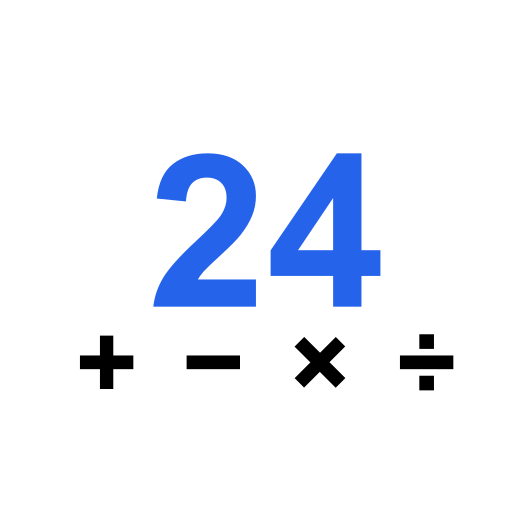
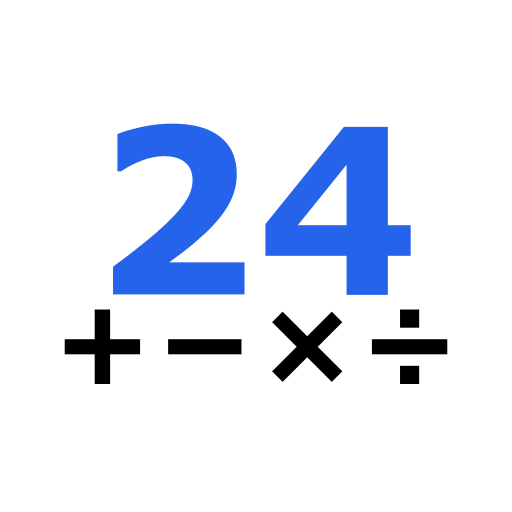
more pwa

diff --git a/public/sw.js b/public/sw.js
@@ -1,1 +1,1 @@
-if(!self.define){let e,s={};const a=(a,n)=>(a=new URL(a+".js",n).href,s[a]||new Promise((s=>{if("document"in self){const e=document.createElement("script");e.src=a,e.onload=s,document.head.appendChild(e)}else e=a,importScripts(a),s()})).then((()=>{let e=s[a];if(!e)throw new Error(`Module ${a} didn’t register its module`);return e})));self.define=(n,t)=>{const i=e||("document"in self?document.currentScript.src:"")||location.href;if(s[i])return;let c={};const r=e=>a(e,i),o={module:{uri:i},exports:c,require:r};s[i]=Promise.all(n.map((e=>o[e]||r(e)))).then((e=>(t(...e),c)))}}define(["./workbox-4754cb34"],(function(e){"use strict";importScripts(),self.skipWaiting(),e.clientsClaim(),e.precacheAndRoute([{url:"/_next/app-build-manifest.json",revision:"3a057313ae158e9dedf88580bd00e910"},{url:"/_next/static/33mBJdGOMOGts4jSuU8fO/_buildManifest.js",revision:"ff922c5cfc902466bc8002c14198983b"},{url:"/_next/static/33mBJdGOMOGts4jSuU8fO/_ssgManifest.js",revision:"b6652df95db52feb4daf4eca35380933"},{url:"/_next/static/chunks/40-16661ee4245906f6.js",revision:"33mBJdGOMOGts4jSuU8fO"},{url:"/_next/static/chunks/4bd1b696-f4e4a7fe856b7615.js",revision:"33mBJdGOMOGts4jSuU8fO"},{url:"/_next/static/chunks/517-d18828837ab5e8d4.js",revision:"33mBJdGOMOGts4jSuU8fO"},{url:"/_next/static/chunks/app/_not-found/page-b60f205c5b8b186d.js",revision:"33mBJdGOMOGts4jSuU8fO"},{url:"/_next/static/chunks/app/layout-e7e750a429e8f20a.js",revision:"33mBJdGOMOGts4jSuU8fO"},{url:"/_next/static/chunks/app/page-c4a362f233a7e65b.js",revision:"33mBJdGOMOGts4jSuU8fO"},{url:"/_next/static/chunks/framework-6b27c2b7aa38af2d.js",revision:"33mBJdGOMOGts4jSuU8fO"},{url:"/_next/static/chunks/main-app-a8576680231c5700.js",revision:"33mBJdGOMOGts4jSuU8fO"},{url:"/_next/static/chunks/main-b345cc4090c89957.js",revision:"33mBJdGOMOGts4jSuU8fO"},{url:"/_next/static/chunks/pages/_app-d23763e3e6c904ff.js",revision:"33mBJdGOMOGts4jSuU8fO"},{url:"/_next/static/chunks/pages/_error-9b7125ad1a1e68fa.js",revision:"33mBJdGOMOGts4jSuU8fO"},{url:"/_next/static/chunks/polyfills-42372ed130431b0a.js",revision:"846118c33b2c0e922d7b3a7676f81f6f"},{url:"/_next/static/chunks/webpack-14ffe8e936842fe9.js",revision:"33mBJdGOMOGts4jSuU8fO"},{url:"/_next/static/css/2846aad54b552733.css",revision:"2846aad54b552733"},{url:"/_next/static/media/569ce4b8f30dc480-s.p.woff2",revision:"ef6cefb32024deac234e82f932a95cbd"},{url:"/_next/static/media/747892c23ea88013-s.woff2",revision:"a0761690ccf4441ace5cec893b82d4ab"},{url:"/_next/static/media/93f479601ee12b01-s.p.woff2",revision:"da83d5f06d825c5ae65b7cca706cb312"},{url:"/_next/static/media/ba015fad6dcf6784-s.woff2",revision:"8ea4f719af3312a055caf09f34c89a77"},{url:"/file.svg",revision:"d09f95206c3fa0bb9bd9fefabfd0ea71"},{url:"/globe.svg",revision:"2aaafa6a49b6563925fe440891e32717"},{url:"/icon_192.png",revision:"56f9ae3a0b7821a9238a91d82f6e0058"},{url:"/icon_512.png",revision:"15452089b5c8c05ba2b8adfa6f015887"},{url:"/manifest.json",revision:"6640a6f93feca4a3ea86b06a04584928"},{url:"/next.svg",revision:"8e061864f388b47f33a1c3780831193e"},{url:"/vercel.svg",revision:"c0af2f507b369b085b35ef4bbe3bcf1e"},{url:"/window.svg",revision:"a2760511c65806022ad20adf74370ff3"}],{ignoreURLParametersMatching:[]}),e.cleanupOutdatedCaches(),e.registerRoute("/",new e.NetworkFirst({cacheName:"start-url",plugins:[{cacheWillUpdate:async({request:e,response:s,event:a,state:n})=>s&&"opaqueredirect"===s.type?new Response(s.body,{status:200,statusText:"OK",headers:s.headers}):s}]}),"GET"),e.registerRoute(/^https:\/\/fonts\.(?:gstatic)\.com\/.*/i,new e.CacheFirst({cacheName:"google-fonts-webfonts",plugins:[new e.ExpirationPlugin({maxEntries:4,maxAgeSeconds:31536e3})]}),"GET"),e.registerRoute(/^https:\/\/fonts\.(?:googleapis)\.com\/.*/i,new e.StaleWhileRevalidate({cacheName:"google-fonts-stylesheets",plugins:[new e.ExpirationPlugin({maxEntries:4,maxAgeSeconds:604800})]}),"GET"),e.registerRoute(/\.(?:eot|otf|ttc|ttf|woff|woff2|font.css)$/i,new e.StaleWhileRevalidate({cacheName:"static-font-assets",plugins:[new e.ExpirationPlugin({maxEntries:4,maxAgeSeconds:604800})]}),"GET"),e.registerRoute(/\.(?:jpg|jpeg|gif|png|svg|ico|webp)$/i,new e.StaleWhileRevalidate({cacheName:"static-image-assets",plugins:[new e.ExpirationPlugin({maxEntries:64,maxAgeSeconds:86400})]}),"GET"),e.registerRoute(/\/_next\/image\?url=.+$/i,new e.StaleWhileRevalidate({cacheName:"next-image",plugins:[new e.ExpirationPlugin({maxEntries:64,maxAgeSeconds:86400})]}),"GET"),e.registerRoute(/\.(?:mp3|wav|ogg)$/i,new e.CacheFirst({cacheName:"static-audio-assets",plugins:[new e.RangeRequestsPlugin,new e.ExpirationPlugin({maxEntries:32,maxAgeSeconds:86400})]}),"GET"),e.registerRoute(/\.(?:mp4)$/i,new e.CacheFirst({cacheName:"static-video-assets",plugins:[new e.RangeRequestsPlugin,new e.ExpirationPlugin({maxEntries:32,maxAgeSeconds:86400})]}),"GET"),e.registerRoute(/\.(?:js)$/i,new e.StaleWhileRevalidate({cacheName:"static-js-assets",plugins:[new e.ExpirationPlugin({maxEntries:32,maxAgeSeconds:86400})]}),"GET"),e.registerRoute(/\.(?:css|less)$/i,new e.StaleWhileRevalidate({cacheName:"static-style-assets",plugins:[new e.ExpirationPlugin({maxEntries:32,maxAgeSeconds:86400})]}),"GET"),e.registerRoute(/\/_next\/data\/.+\/.+\.json$/i,new e.StaleWhileRevalidate({cacheName:"next-data",plugins:[new e.ExpirationPlugin({maxEntries:32,maxAgeSeconds:86400})]}),"GET"),e.registerRoute(/\.(?:json|xml|csv)$/i,new e.NetworkFirst({cacheName:"static-data-assets",plugins:[new e.ExpirationPlugin({maxEntries:32,maxAgeSeconds:86400})]}),"GET"),e.registerRoute((({url:e})=>{if(!(self.origin===e.origin))return!1;const s=e.pathname;return!s.startsWith("/api/auth/")&&!!s.startsWith("/api/")}),new e.NetworkFirst({cacheName:"apis",networkTimeoutSeconds:10,plugins:[new e.ExpirationPlugin({maxEntries:16,maxAgeSeconds:86400})]}),"GET"),e.registerRoute((({url:e})=>{if(!(self.origin===e.origin))return!1;return!e.pathname.startsWith("/api/")}),new e.NetworkFirst({cacheName:"others",networkTimeoutSeconds:10,plugins:[new e.ExpirationPlugin({maxEntries:32,maxAgeSeconds:86400})]}),"GET"),e.registerRoute((({url:e})=>!(self.origin===e.origin)),new e.NetworkFirst({cacheName:"cross-origin",networkTimeoutSeconds:10,plugins:[new e.ExpirationPlugin({maxEntries:32,maxAgeSeconds:3600})]}),"GET")}));
+if(!self.define){let e,s={};const n=(n,a)=>(n=new URL(n+".js",a).href,s[n]||new Promise((s=>{if("document"in self){const e=document.createElement("script");e.src=n,e.onload=s,document.head.appendChild(e)}else e=n,importScripts(n),s()})).then((()=>{let e=s[n];if(!e)throw new Error(`Module ${n} didn’t register its module`);return e})));self.define=(a,t)=>{const i=e||("document"in self?document.currentScript.src:"")||location.href;if(s[i])return;let c={};const r=e=>n(e,i),o={module:{uri:i},exports:c,require:r};s[i]=Promise.all(a.map((e=>o[e]||r(e)))).then((e=>(t(...e),c)))}}define(["./workbox-4754cb34"],(function(e){"use strict";importScripts(),self.skipWaiting(),e.clientsClaim(),e.precacheAndRoute([{url:"/_next/app-build-manifest.json",revision:"3a057313ae158e9dedf88580bd00e910"},{url:"/_next/static/chunks/40-16661ee4245906f6.js",revision:"k5S5D_tRFLKKPbeLRJznu"},{url:"/_next/static/chunks/4bd1b696-f4e4a7fe856b7615.js",revision:"k5S5D_tRFLKKPbeLRJznu"},{url:"/_next/static/chunks/517-d18828837ab5e8d4.js",revision:"k5S5D_tRFLKKPbeLRJznu"},{url:"/_next/static/chunks/app/_not-found/page-b60f205c5b8b186d.js",revision:"k5S5D_tRFLKKPbeLRJznu"},{url:"/_next/static/chunks/app/layout-e7e750a429e8f20a.js",revision:"k5S5D_tRFLKKPbeLRJznu"},{url:"/_next/static/chunks/app/page-c4a362f233a7e65b.js",revision:"k5S5D_tRFLKKPbeLRJznu"},{url:"/_next/static/chunks/framework-6b27c2b7aa38af2d.js",revision:"k5S5D_tRFLKKPbeLRJznu"},{url:"/_next/static/chunks/main-app-a8576680231c5700.js",revision:"k5S5D_tRFLKKPbeLRJznu"},{url:"/_next/static/chunks/main-b345cc4090c89957.js",revision:"k5S5D_tRFLKKPbeLRJznu"},{url:"/_next/static/chunks/pages/_app-d23763e3e6c904ff.js",revision:"k5S5D_tRFLKKPbeLRJznu"},{url:"/_next/static/chunks/pages/_error-9b7125ad1a1e68fa.js",revision:"k5S5D_tRFLKKPbeLRJznu"},{url:"/_next/static/chunks/polyfills-42372ed130431b0a.js",revision:"846118c33b2c0e922d7b3a7676f81f6f"},{url:"/_next/static/chunks/webpack-14ffe8e936842fe9.js",revision:"k5S5D_tRFLKKPbeLRJznu"},{url:"/_next/static/css/2846aad54b552733.css",revision:"2846aad54b552733"},{url:"/_next/static/k5S5D_tRFLKKPbeLRJznu/_buildManifest.js",revision:"ff922c5cfc902466bc8002c14198983b"},{url:"/_next/static/k5S5D_tRFLKKPbeLRJznu/_ssgManifest.js",revision:"b6652df95db52feb4daf4eca35380933"},{url:"/_next/static/media/569ce4b8f30dc480-s.p.woff2",revision:"ef6cefb32024deac234e82f932a95cbd"},{url:"/_next/static/media/747892c23ea88013-s.woff2",revision:"a0761690ccf4441ace5cec893b82d4ab"},{url:"/_next/static/media/93f479601ee12b01-s.p.woff2",revision:"da83d5f06d825c5ae65b7cca706cb312"},{url:"/_next/static/media/ba015fad6dcf6784-s.woff2",revision:"8ea4f719af3312a055caf09f34c89a77"},{url:"/file.svg",revision:"d09f95206c3fa0bb9bd9fefabfd0ea71"},{url:"/globe.svg",revision:"2aaafa6a49b6563925fe440891e32717"},{url:"/icon_192.png",revision:"a4a83ce25ac60b044ff04b15a035796a"},{url:"/icon_512.png",revision:"c7c2ec02cb189a4d406fb0580e262c1e"},{url:"/manifest.json",revision:"6640a6f93feca4a3ea86b06a04584928"},{url:"/next.svg",revision:"8e061864f388b47f33a1c3780831193e"},{url:"/vercel.svg",revision:"c0af2f507b369b085b35ef4bbe3bcf1e"},{url:"/window.svg",revision:"a2760511c65806022ad20adf74370ff3"}],{ignoreURLParametersMatching:[]}),e.cleanupOutdatedCaches(),e.registerRoute("/",new e.NetworkFirst({cacheName:"start-url",plugins:[{cacheWillUpdate:async({request:e,response:s,event:n,state:a})=>s&&"opaqueredirect"===s.type?new Response(s.body,{status:200,statusText:"OK",headers:s.headers}):s}]}),"GET"),e.registerRoute(/^https:\/\/fonts\.(?:gstatic)\.com\/.*/i,new e.CacheFirst({cacheName:"google-fonts-webfonts",plugins:[new e.ExpirationPlugin({maxEntries:4,maxAgeSeconds:31536e3})]}),"GET"),e.registerRoute(/^https:\/\/fonts\.(?:googleapis)\.com\/.*/i,new e.StaleWhileRevalidate({cacheName:"google-fonts-stylesheets",plugins:[new e.ExpirationPlugin({maxEntries:4,maxAgeSeconds:604800})]}),"GET"),e.registerRoute(/\.(?:eot|otf|ttc|ttf|woff|woff2|font.css)$/i,new e.StaleWhileRevalidate({cacheName:"static-font-assets",plugins:[new e.ExpirationPlugin({maxEntries:4,maxAgeSeconds:604800})]}),"GET"),e.registerRoute(/\.(?:jpg|jpeg|gif|png|svg|ico|webp)$/i,new e.StaleWhileRevalidate({cacheName:"static-image-assets",plugins:[new e.ExpirationPlugin({maxEntries:64,maxAgeSeconds:86400})]}),"GET"),e.registerRoute(/\/_next\/image\?url=.+$/i,new e.StaleWhileRevalidate({cacheName:"next-image",plugins:[new e.ExpirationPlugin({maxEntries:64,maxAgeSeconds:86400})]}),"GET"),e.registerRoute(/\.(?:mp3|wav|ogg)$/i,new e.CacheFirst({cacheName:"static-audio-assets",plugins:[new e.RangeRequestsPlugin,new e.ExpirationPlugin({maxEntries:32,maxAgeSeconds:86400})]}),"GET"),e.registerRoute(/\.(?:mp4)$/i,new e.CacheFirst({cacheName:"static-video-assets",plugins:[new e.RangeRequestsPlugin,new e.ExpirationPlugin({maxEntries:32,maxAgeSeconds:86400})]}),"GET"),e.registerRoute(/\.(?:js)$/i,new e.StaleWhileRevalidate({cacheName:"static-js-assets",plugins:[new e.ExpirationPlugin({maxEntries:32,maxAgeSeconds:86400})]}),"GET"),e.registerRoute(/\.(?:css|less)$/i,new e.StaleWhileRevalidate({cacheName:"static-style-assets",plugins:[new e.ExpirationPlugin({maxEntries:32,maxAgeSeconds:86400})]}),"GET"),e.registerRoute(/\/_next\/data\/.+\/.+\.json$/i,new e.StaleWhileRevalidate({cacheName:"next-data",plugins:[new e.ExpirationPlugin({maxEntries:32,maxAgeSeconds:86400})]}),"GET"),e.registerRoute(/\.(?:json|xml|csv)$/i,new e.NetworkFirst({cacheName:"static-data-assets",plugins:[new e.ExpirationPlugin({maxEntries:32,maxAgeSeconds:86400})]}),"GET"),e.registerRoute((({url:e})=>{if(!(self.origin===e.origin))return!1;const s=e.pathname;return!s.startsWith("/api/auth/")&&!!s.startsWith("/api/")}),new e.NetworkFirst({cacheName:"apis",networkTimeoutSeconds:10,plugins:[new e.ExpirationPlugin({maxEntries:16,maxAgeSeconds:86400})]}),"GET"),e.registerRoute((({url:e})=>{if(!(self.origin===e.origin))return!1;return!e.pathname.startsWith("/api/")}),new e.NetworkFirst({cacheName:"others",networkTimeoutSeconds:10,plugins:[new e.ExpirationPlugin({maxEntries:32,maxAgeSeconds:86400})]}),"GET"),e.registerRoute((({url:e})=>!(self.origin===e.origin)),new e.NetworkFirst({cacheName:"cross-origin",networkTimeoutSeconds:10,plugins:[new e.ExpirationPlugin({maxEntries:32,maxAgeSeconds:3600})]}),"GET")}));

diff --git a/src/app/layout.tsx b/src/app/layout.tsx
@@ -24,6 +24,9 @@ export default function RootLayout({
 }>) {
   return (
     <html lang="en">
+      <head>
+        <link rel="manifest" href="/manifest.json" />
+      </head>
       <body
         className={`${geistSans.variable} ${geistMono.variable} antialiased`}
       >
